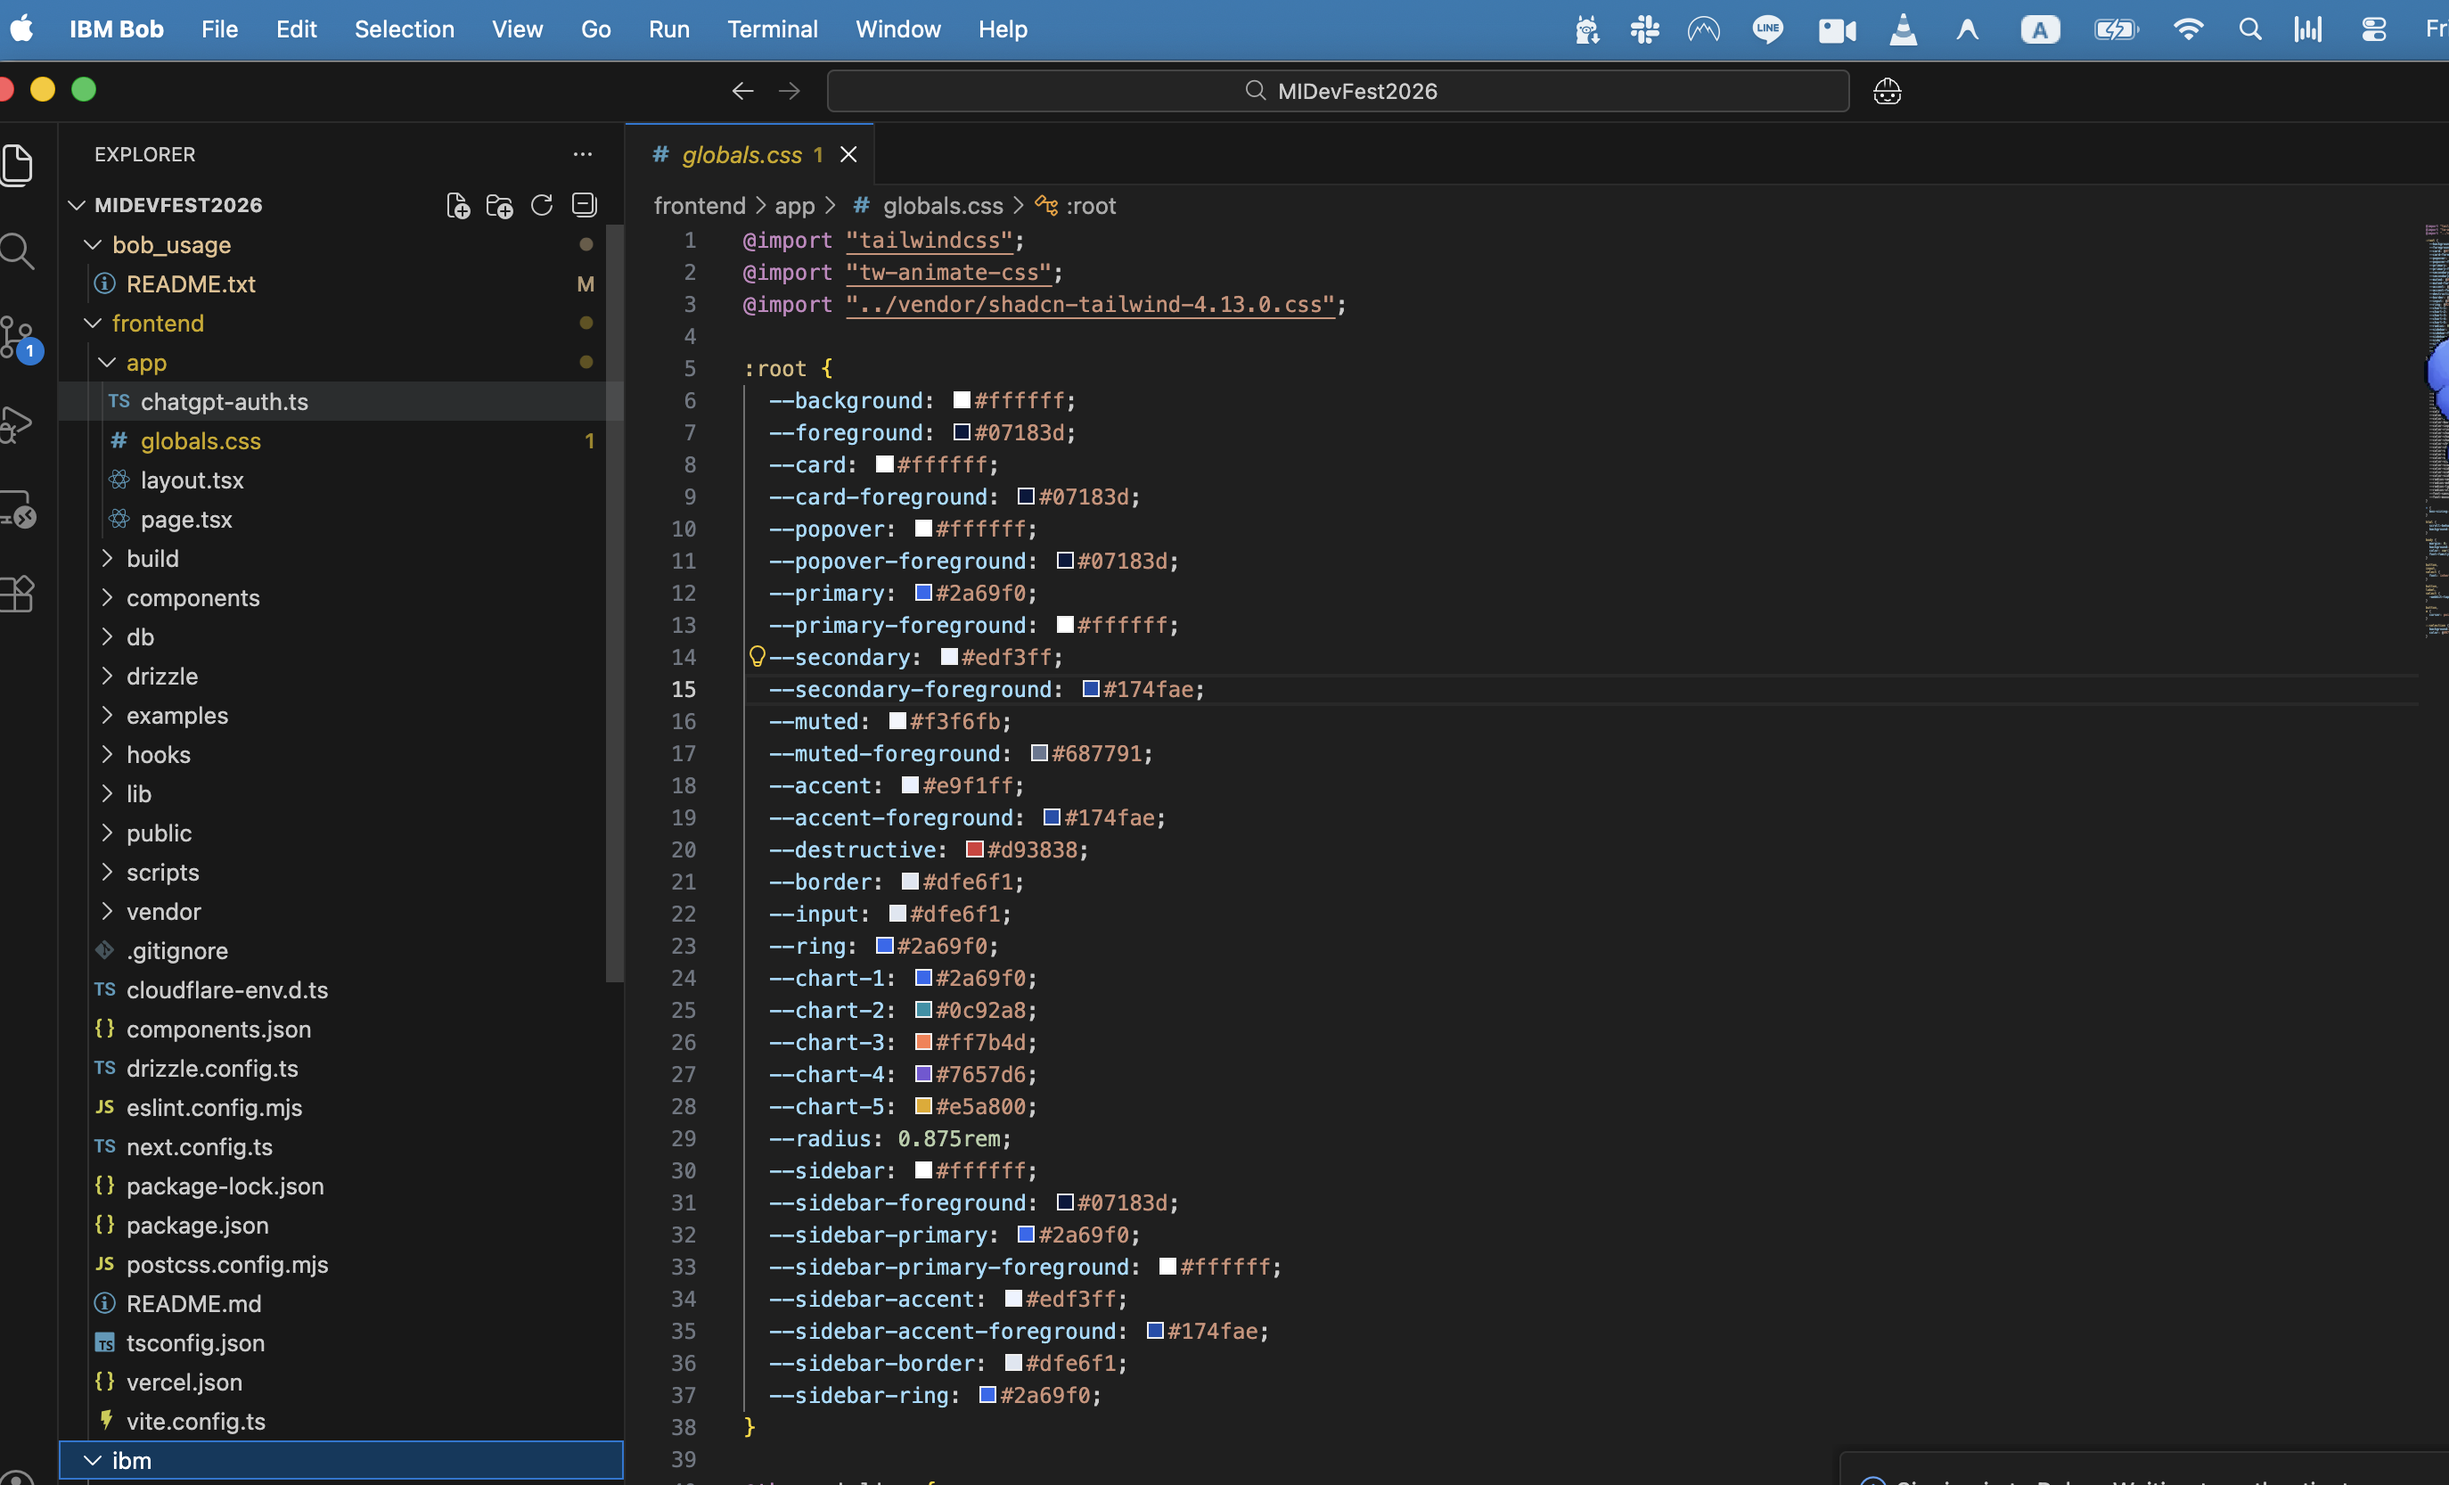
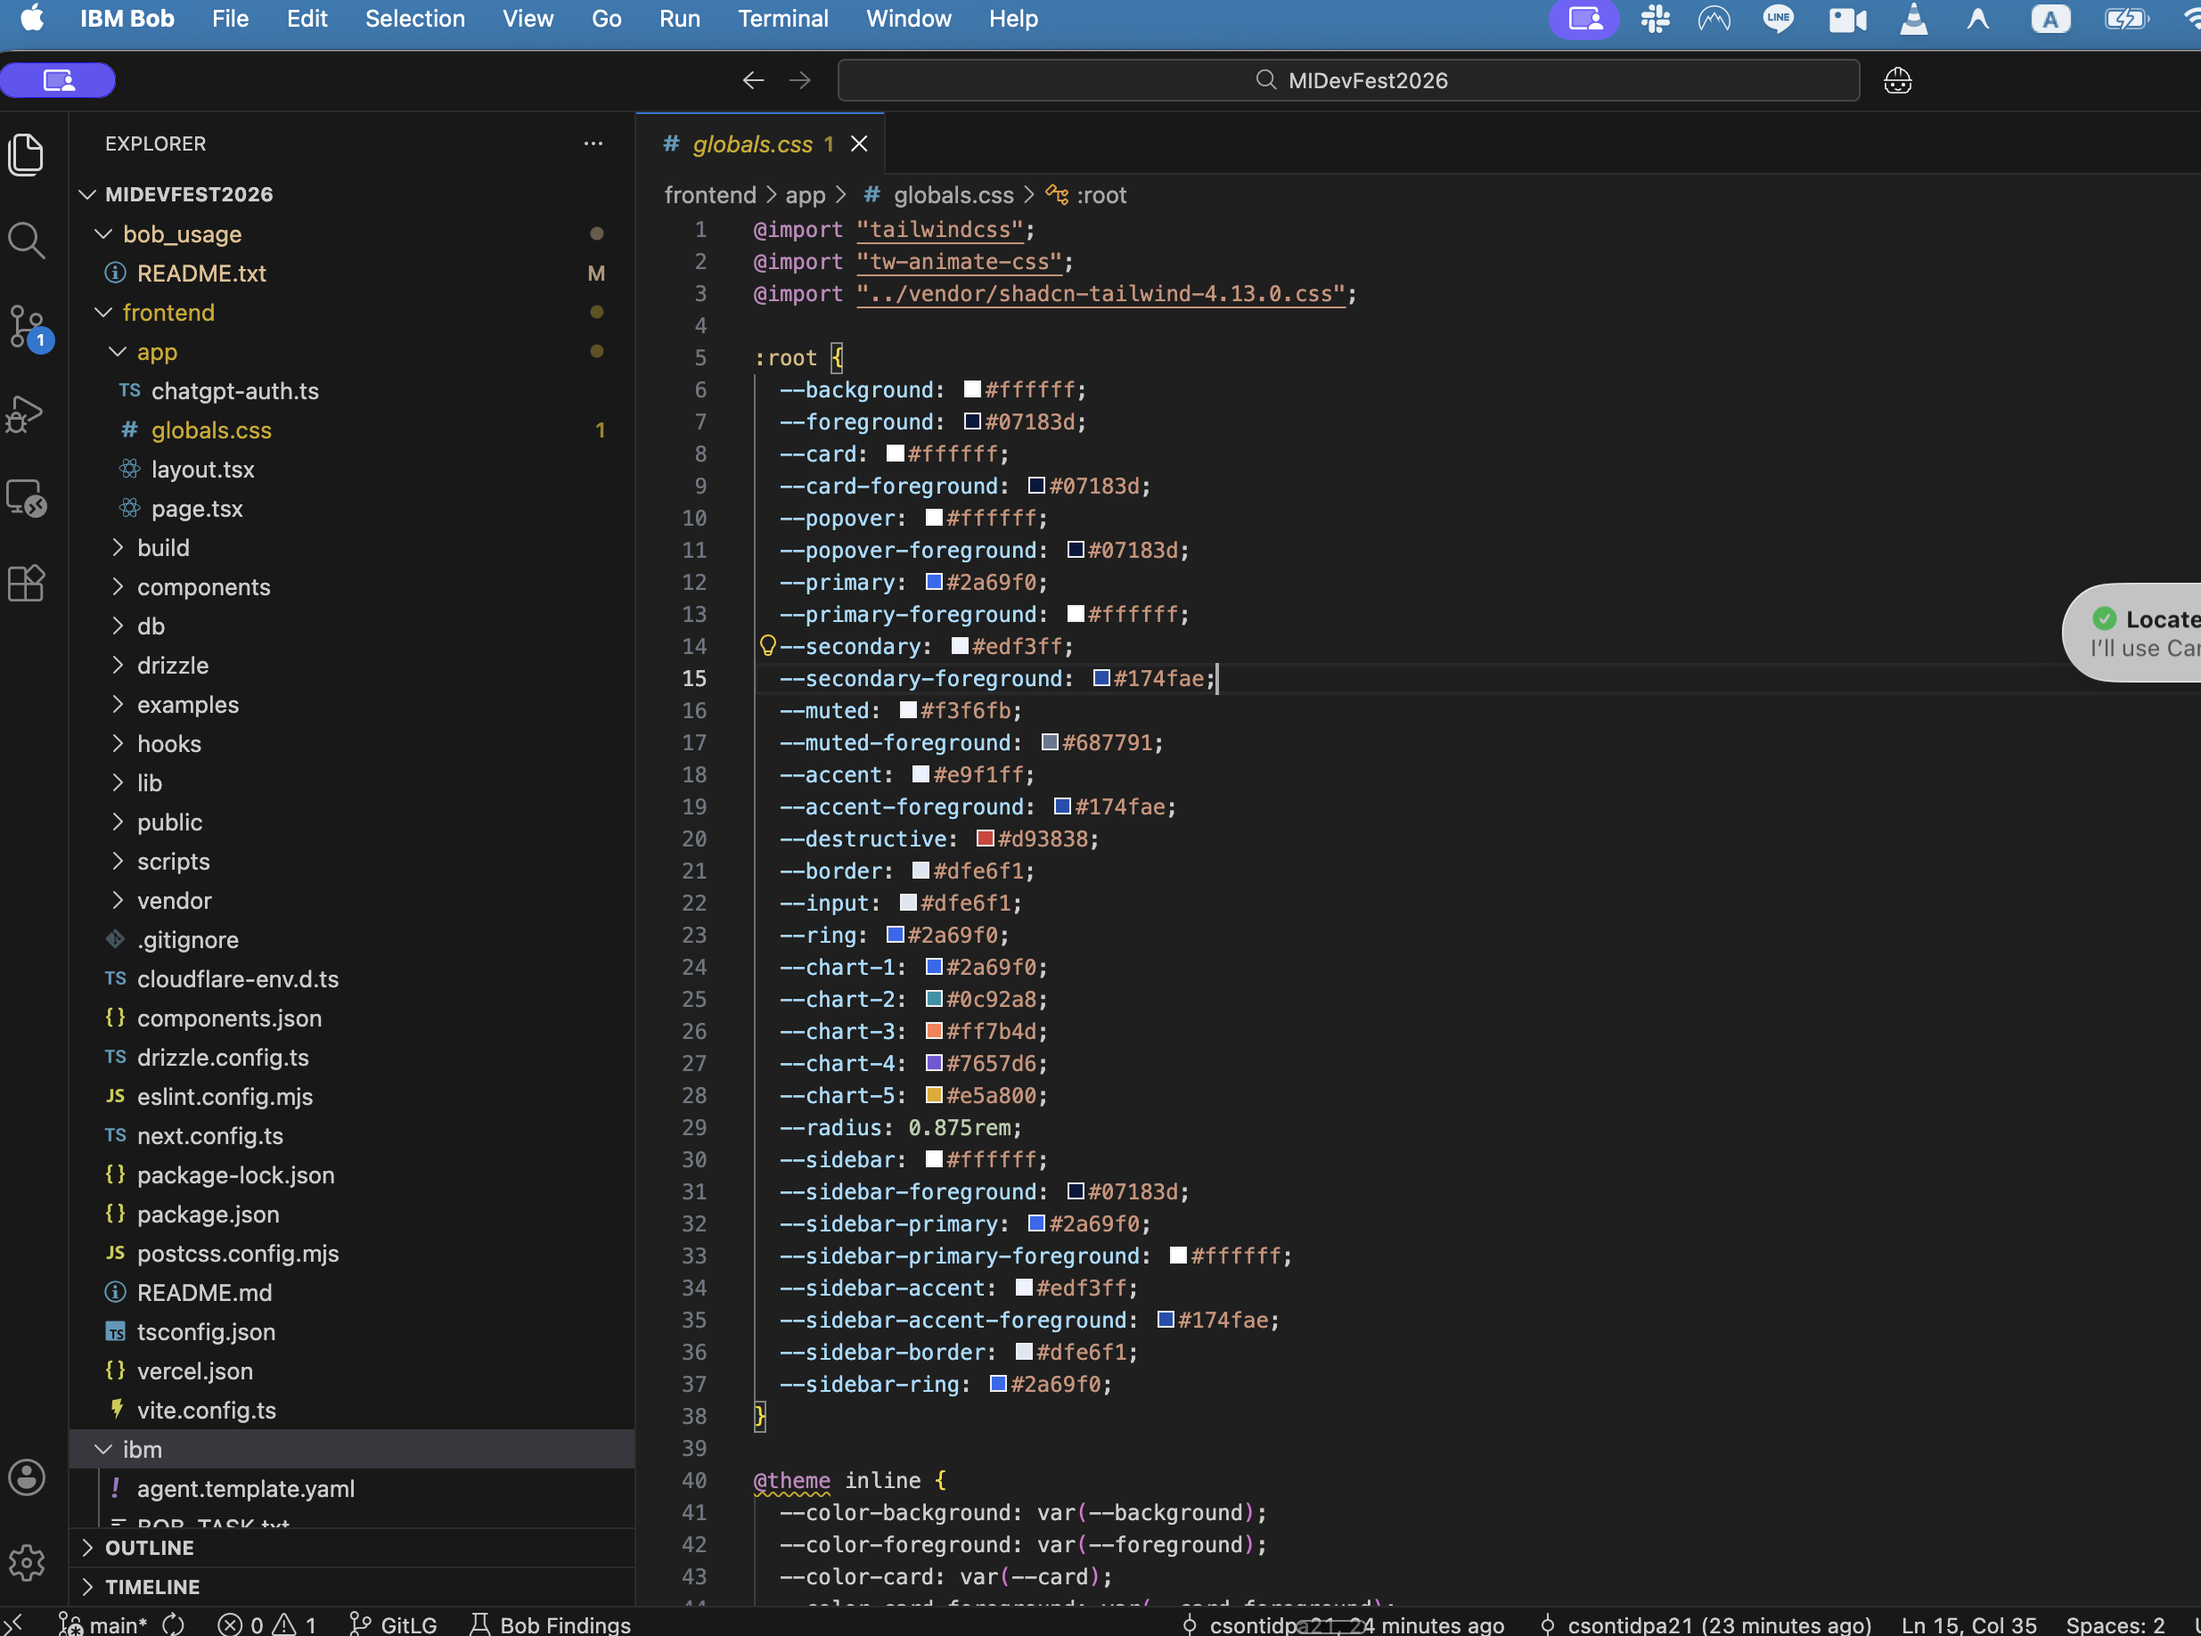
Refresh Bob workspace screenshots and update file references

diff --git a/README.md b/README.md
@@ -50,4 +50,4 @@ The video is a narrated screenshot walkthrough, not genuine Bob/Orchestrate work
 
 ## Supplied IBM Bob workspace screenshots
 
-Three supplied screenshots are in [bob_usage](bob_usage/). Two appear in the updated eight-slide presentation and 2:55 video. They show the frontend project open in Bob; the required Budget badge and completed project-task evidence are still outstanding.
+Two supplied screenshots are in [bob_usage](bob_usage/). Both appear in the updated eight-slide presentation and 2:55 video. They show the frontend project open in Bob; the required Budget badge and completed project-task evidence are still outstanding.
